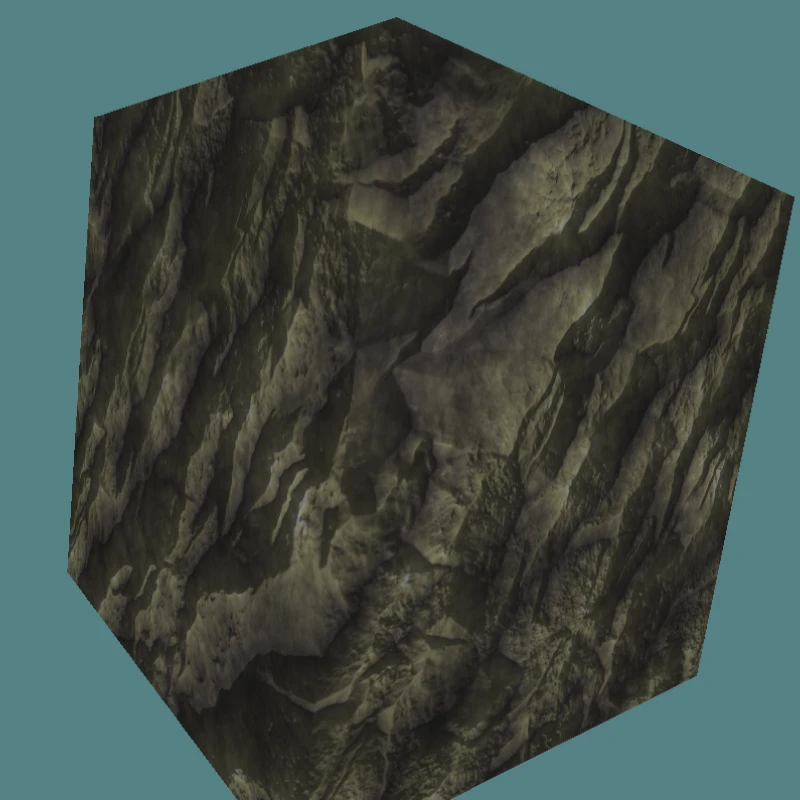
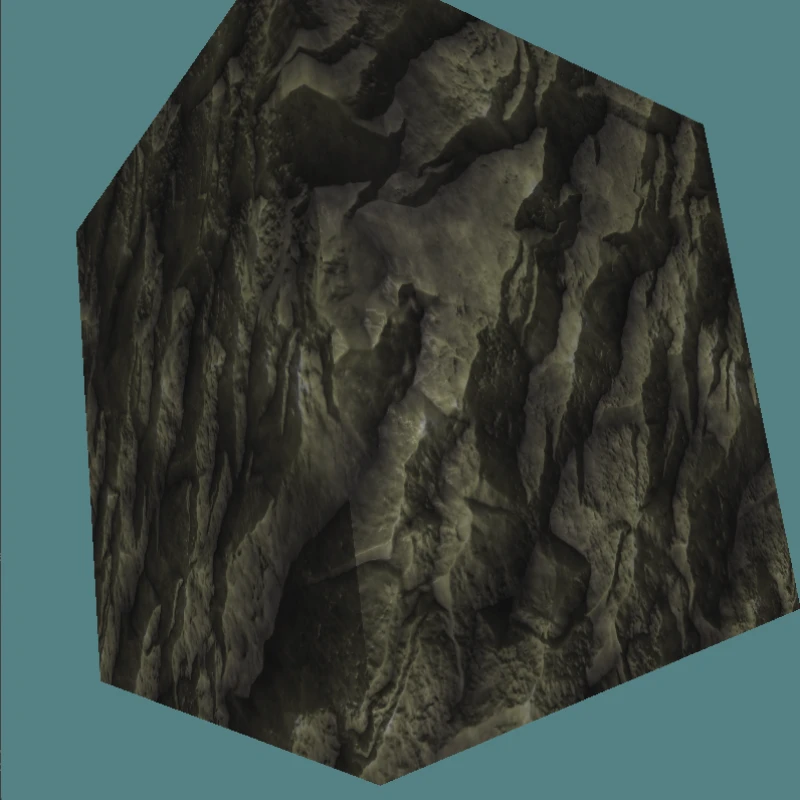
feat(normal_mapping): apply phong lighting and ao

diff --git a/src/graphics/dx12/demo/normal_mapping.cpp b/src/graphics/dx12/demo/normal_mapping.cpp
@@ -86,6 +86,7 @@ namespace DEMO_NAME
             std::tie(c.CBV_TRANSFORM_OFFSET, c.CBV_TRANSFORM_SIZE)       = counter.appendAligned<DirectX::XMFLOAT4X4>(1, 256);
             std::tie(c.CBV_VIEWPROJ_OFFSET, c.CBV_VIEWPROJ_SIZE)         = counter.appendAligned<DirectX::XMFLOAT4X4>(1, 256);
             std::tie(c.TEXTURE_DIFFUSE_OFFSET, c.TEXTURE_DIFFUSE_SIZE)   = counter.appendAligned(AlignTo(TEXTURE_WIDTH * TEXTURE_CHANNELS, D3D12_TEXTURE_DATA_PITCH_ALIGNMENT) * TEXTURE_HEIGHT, D3D12_TEXTURE_DATA_PLACEMENT_ALIGNMENT);
+            std::tie(c.TEXTURE_AMBIENT_OFFSET, c.TEXTURE_AMBIENT_SIZE)   = counter.appendAligned(AlignTo(TEXTURE_WIDTH, D3D12_TEXTURE_DATA_PITCH_ALIGNMENT) * TEXTURE_HEIGHT, D3D12_TEXTURE_DATA_PLACEMENT_ALIGNMENT);
             std::tie(c.TEXTURE_NORMAL_OFFSET, c.TEXTURE_NORMAL_SIZE)     = counter.appendAligned(AlignTo(TEXTURE_WIDTH * TEXTURE_CHANNELS, D3D12_TEXTURE_DATA_PITCH_ALIGNMENT) * TEXTURE_HEIGHT, D3D12_TEXTURE_DATA_PLACEMENT_ALIGNMENT);
             std::tie(c.UPLOAD_BUFFER_SIZE, std::ignore) = counter.append(0);
             // clang-format on
@@ -181,7 +182,7 @@ namespace DEMO_NAME
             Die(device->CreateDescriptorHeap(
                 as_lvalue(D3D12_DESCRIPTOR_HEAP_DESC{
                     .Type = D3D12_DESCRIPTOR_HEAP_TYPE_CBV_SRV_UAV,
-                    .NumDescriptors = 2,
+                    .NumDescriptors = 3,
                     .Flags = D3D12_DESCRIPTOR_HEAP_FLAG_SHADER_VISIBLE,
                     .NodeMask = 0,
                 }),
@@ -248,7 +249,49 @@ namespace DEMO_NAME
                 std::memcpy(
                     textureDiffuseData.data() + textureRowPitch * i,
                     stbiData.get() + TEXTURE_WIDTH * 4 * i,
-                    TEXTURE_HEIGHT * 4);
+                    TEXTURE_WIDTH * 4);
+        }
+
+        uint32_t ambientTextureRowPitch;
+        std::vector<char> textureAmbientData;
+        {
+            auto normalPath = Path::getAssetPath() / "texture" / "jagged-cliff1-ao_low.png";
+
+            // Immediately invoked function expressions (IIFE)
+            const auto stbiData = [&]() {
+                // This scope prevents usage of `width`, `height`, and `channels`
+                int width;
+                int height;
+                int channels;
+
+                // Windows uses wchar in std::filesystem::path >:(
+#ifdef _WIN32
+                char stbiBuf[512];
+                stbi_convert_wchar_to_utf8(stbiBuf, sizeof(stbiBuf), normalPath.c_str());
+
+                auto stbiData = std::unique_ptr<stbi_uc, void (*)(void*)>(
+                    stbi_load(stbiBuf, &width, &height, &channels, STBI_grey), // everything will break if this is
+                                                                               // changed from STBI_grey :)
+                    stbi_image_free);
+#else
+                auto stbiData = std::unique_ptr<stbi_uc, void (*)(void*)>(
+                    stbi_load(catPath.c_str(), &width, &textureHeight, &channels, STBI_rgb_alpha),
+                    stbi_image_free);
+#endif
+                assert(width == TEXTURE_WIDTH);
+                assert(height == TEXTURE_HEIGHT);
+
+                ambientTextureRowPitch = AlignTo(TEXTURE_WIDTH * 1, D3D12_TEXTURE_DATA_PITCH_ALIGNMENT);
+
+                return stbiData;
+            }();
+
+            textureAmbientData.resize(ambientTextureRowPitch * TEXTURE_HEIGHT);
+            for(uint32_t i = 0; i < TEXTURE_HEIGHT; ++i)
+                std::memcpy(
+                    textureAmbientData.data() + ambientTextureRowPitch * i,
+                    stbiData.get() + TEXTURE_WIDTH * 1 * i,
+                    TEXTURE_WIDTH * 1);
         }
 
         std::vector<char> textureNormalData;
@@ -287,7 +330,7 @@ namespace DEMO_NAME
                 std::memcpy(
                     textureNormalData.data() + textureRowPitch * i,
                     stbiData.get() + TEXTURE_WIDTH * 4 * i,
-                    TEXTURE_HEIGHT * 4);
+                    TEXTURE_WIDTH * 4);
         }
 
         {
@@ -516,6 +559,35 @@ namespace DEMO_NAME
                     .Height = TEXTURE_HEIGHT,
                     .DepthOrArraySize = 1, // Mandatory
                     .MipLevels = 1,
+                    .Format = DXGI_FORMAT_R8_UNORM,
+                    .SampleDesc =
+                        {
+                            .Count = 1, // Mandatory
+                            .Quality = 0, // Mandatory
+                        },
+                    .Layout = D3D12_TEXTURE_LAYOUT_UNKNOWN, // Mandatory
+                    .Flags = D3D12_RESOURCE_FLAG_NONE,
+                }),
+                D3D12_RESOURCE_STATE_COMMON,
+                nullptr,
+                Out(state.resources.textureAmbient));
+            device->CreateCommittedResource(
+                as_lvalue(D3D12_HEAP_PROPERTIES{
+                    .Type = D3D12_HEAP_TYPE_DEFAULT,
+                    .CPUPageProperty = D3D12_CPU_PAGE_PROPERTY_UNKNOWN, // Mandatory
+                    .MemoryPoolPreference = D3D12_MEMORY_POOL_UNKNOWN, // Mandatory
+                    .CreationNodeMask = 0,
+                    .VisibleNodeMask = 0,
+                }),
+                D3D12_HEAP_FLAG_NONE,
+                as_lvalue(D3D12_RESOURCE_DESC{
+                    .Dimension = D3D12_RESOURCE_DIMENSION_TEXTURE2D,
+                    .Alignment =
+                        0, // https://learn.microsoft.com/en-us/windows/win32/api/d3d12/ns-d3d12-d3d12_resource_desc#alignment
+                    .Width = TEXTURE_WIDTH,
+                    .Height = TEXTURE_HEIGHT,
+                    .DepthOrArraySize = 1, // Mandatory
+                    .MipLevels = 1,
                     .Format = DXGI_FORMAT_R8G8B8A8_UNORM,
                     .SampleDesc =
                         {
@@ -533,6 +605,9 @@ namespace DEMO_NAME
         {
             auto handle = state.heaps.srv->GetCPUDescriptorHandleForHeapStart();
             device->CreateShaderResourceView(state.resources.textureDiffuse.Get(), nullptr, handle);
+
+            handle.ptr += state.descriptorSizes.srv;
+            device->CreateShaderResourceView(state.resources.textureAmbient.Get(), nullptr, handle);
 
             handle.ptr += state.descriptorSizes.srv;
             device->CreateShaderResourceView(state.resources.textureNormal.Get(), nullptr, handle);
@@ -596,6 +671,10 @@ namespace DEMO_NAME
                 (char*)uploadBufferDataPointer + state.constants.TEXTURE_DIFFUSE_OFFSET,
                 textureDiffuseData.data(),
                 state.constants.TEXTURE_DIFFUSE_SIZE);
+            std::memcpy(
+                (char*)uploadBufferDataPointer + state.constants.TEXTURE_AMBIENT_OFFSET,
+                textureAmbientData.data(),
+                state.constants.TEXTURE_AMBIENT_SIZE);
             std::memcpy(
                 (char*)uploadBufferDataPointer + state.constants.TEXTURE_NORMAL_OFFSET,
                 textureNormalData.data(),
@@ -674,6 +753,31 @@ namespace DEMO_NAME
                 nullptr);
             state.commandList->CopyTextureRegion(
                 as_lvalue(D3D12_TEXTURE_COPY_LOCATION{
+                    .pResource = state.resources.textureAmbient.Get(),
+                    .Type = D3D12_TEXTURE_COPY_TYPE_SUBRESOURCE_INDEX,
+                    .SubresourceIndex = 0,
+                }),
+                0,
+                0,
+                0,
+                as_lvalue(D3D12_TEXTURE_COPY_LOCATION{
+                    .pResource = state.resources.uploadBuffer.Get(),
+                    .Type = D3D12_TEXTURE_COPY_TYPE_PLACED_FOOTPRINT,
+                    .PlacedFootprint =
+                        D3D12_PLACED_SUBRESOURCE_FOOTPRINT{
+                            .Offset = state.constants.TEXTURE_AMBIENT_OFFSET,
+                            .Footprint =
+                                D3D12_SUBRESOURCE_FOOTPRINT{
+                                    .Format = DXGI_FORMAT_R8_UNORM,
+                                    .Width = TEXTURE_WIDTH,
+                                    .Height = TEXTURE_HEIGHT,
+                                    .Depth = 1,
+                                    .RowPitch = ambientTextureRowPitch,
+                                },
+                        }}),
+                nullptr);
+            state.commandList->CopyTextureRegion(
+                as_lvalue(D3D12_TEXTURE_COPY_LOCATION{
                     .pResource = state.resources.textureNormal.Get(),
                     .Type = D3D12_TEXTURE_COPY_TYPE_SUBRESOURCE_INDEX,
                     .SubresourceIndex = 0,
@@ -706,6 +810,17 @@ namespace DEMO_NAME
                     .Transition =
                         {
                             .pResource = state.resources.textureDiffuse.Get(),
+                            .Subresource = 0,
+                            .StateBefore = D3D12_RESOURCE_STATE_COPY_DEST,
+                            .StateAfter = D3D12_RESOURCE_STATE_PIXEL_SHADER_RESOURCE,
+                        },
+                },
+                D3D12_RESOURCE_BARRIER{
+                    .Type = D3D12_RESOURCE_BARRIER_TYPE_TRANSITION,
+                    .Flags = D3D12_RESOURCE_BARRIER_FLAG_NONE,
+                    .Transition =
+                        {
+                            .pResource = state.resources.textureAmbient.Get(),
                             .Subresource = 0,
                             .StateBefore = D3D12_RESOURCE_STATE_COPY_DEST,
                             .StateAfter = D3D12_RESOURCE_STATE_PIXEL_SHADER_RESOURCE,
@@ -753,7 +868,7 @@ namespace DEMO_NAME
                             .NumDescriptorRanges = 1,
                             .pDescriptorRanges = as_lvalue(D3D12_DESCRIPTOR_RANGE{
                                 .RangeType = D3D12_DESCRIPTOR_RANGE_TYPE_SRV,
-                                .NumDescriptors = 2,
+                                .NumDescriptors = 3,
                                 .BaseShaderRegister = 0,
                                 .RegisterSpace = 0,
                                 .OffsetInDescriptorsFromTableStart = 0,

diff --git a/src/graphics/dx12/demo/normal_mapping.hpp b/src/graphics/dx12/demo/normal_mapping.hpp
@@ -81,6 +81,7 @@ namespace DEMO_NAME
             ID3D12ResourceS vertexTangentBuffer;
             ID3D12ResourceS indexBuffer;
             ID3D12ResourceS textureDiffuse;
+            ID3D12ResourceS textureAmbient;
             ID3D12ResourceS textureNormal;
         } resources;
 
@@ -108,6 +109,8 @@ namespace DEMO_NAME
             uint32_t CBV_VIEWPROJ_SIZE = -1;
             uint32_t TEXTURE_DIFFUSE_OFFSET = -1;
             uint32_t TEXTURE_DIFFUSE_SIZE = -1;
+            uint32_t TEXTURE_AMBIENT_OFFSET = -1;
+            uint32_t TEXTURE_AMBIENT_SIZE = -1;
             uint32_t TEXTURE_NORMAL_OFFSET = -1;
             uint32_t TEXTURE_NORMAL_SIZE = -1;
             uint32_t UPLOAD_BUFFER_SIZE = -1;
